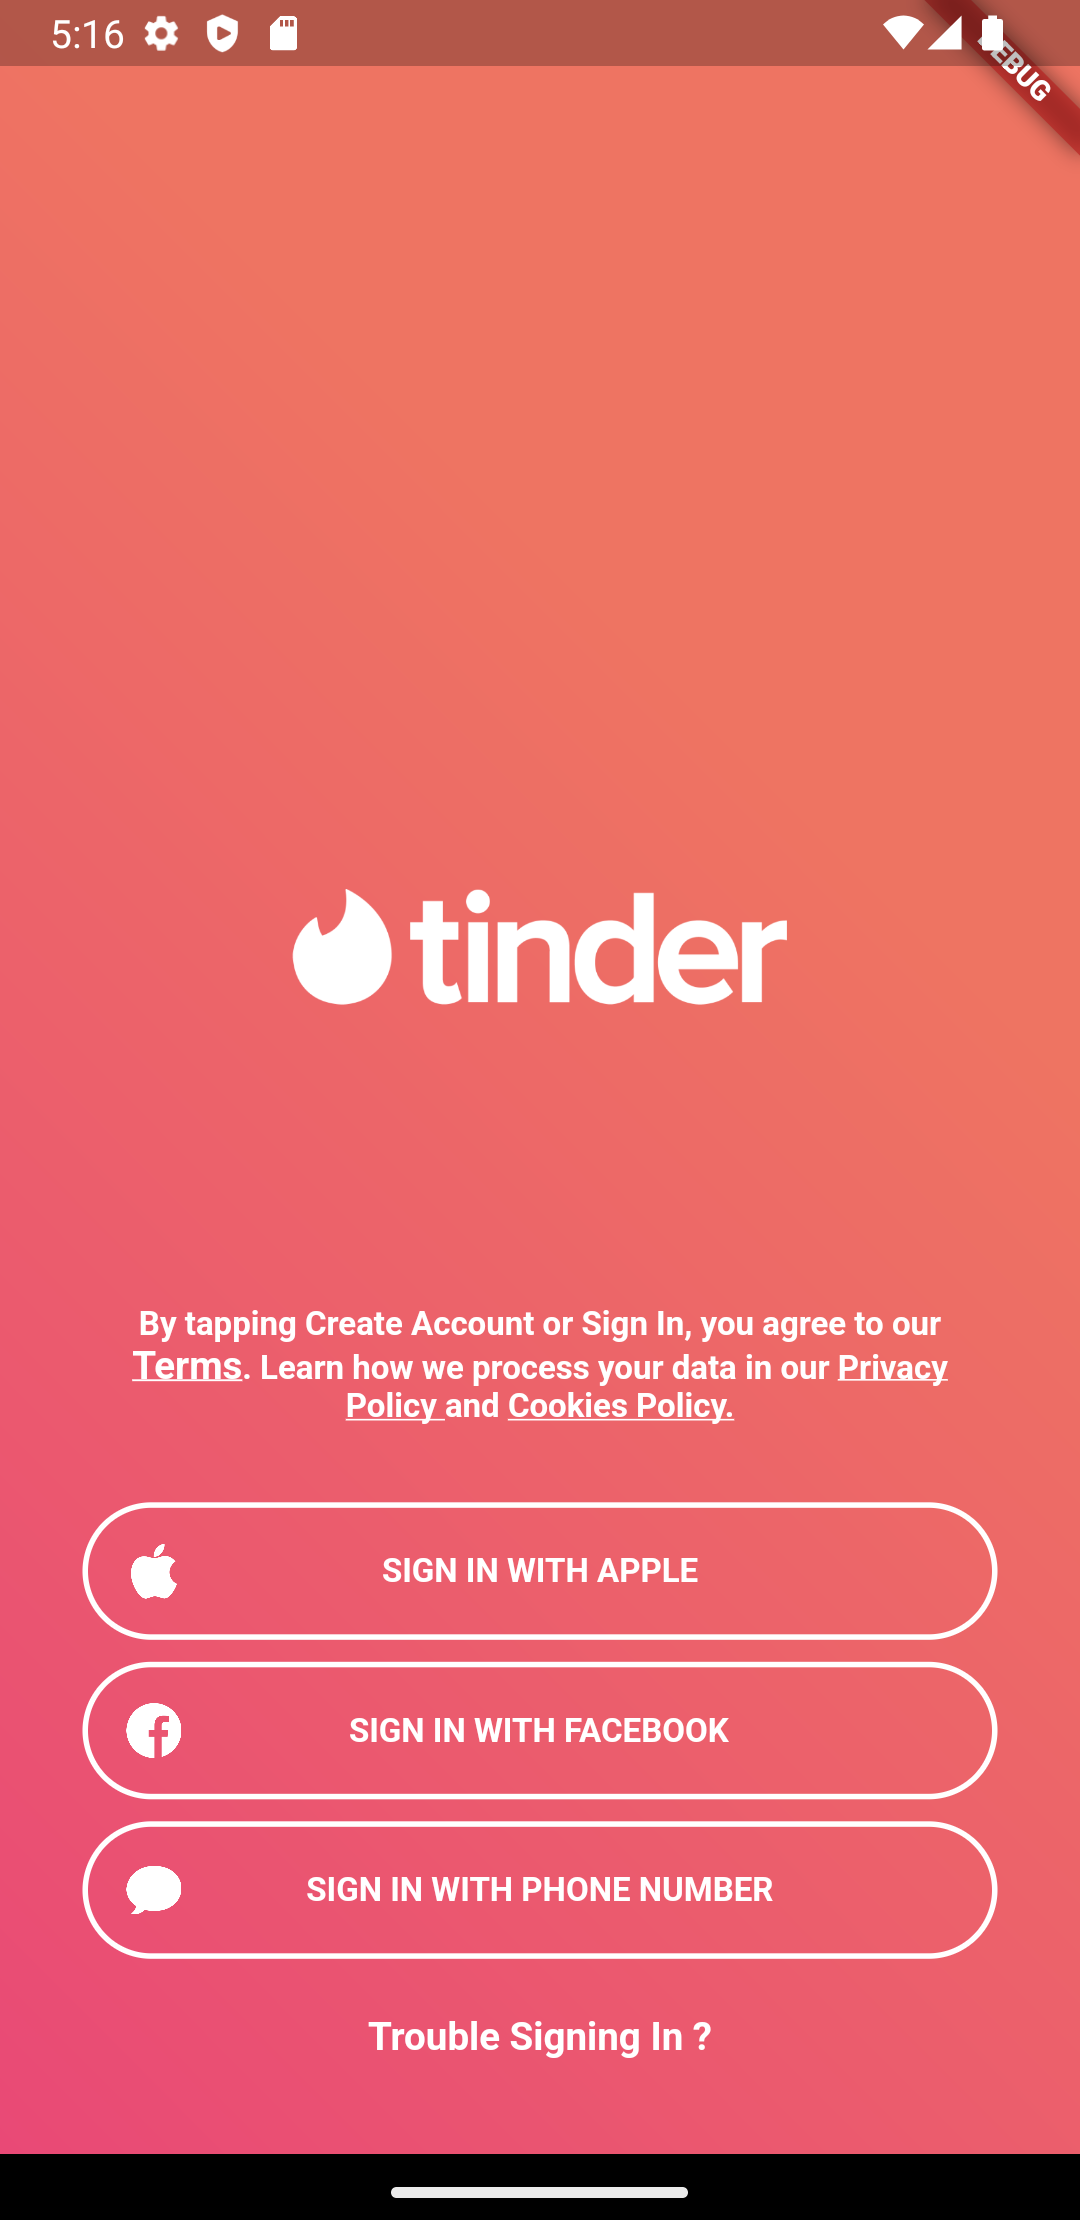
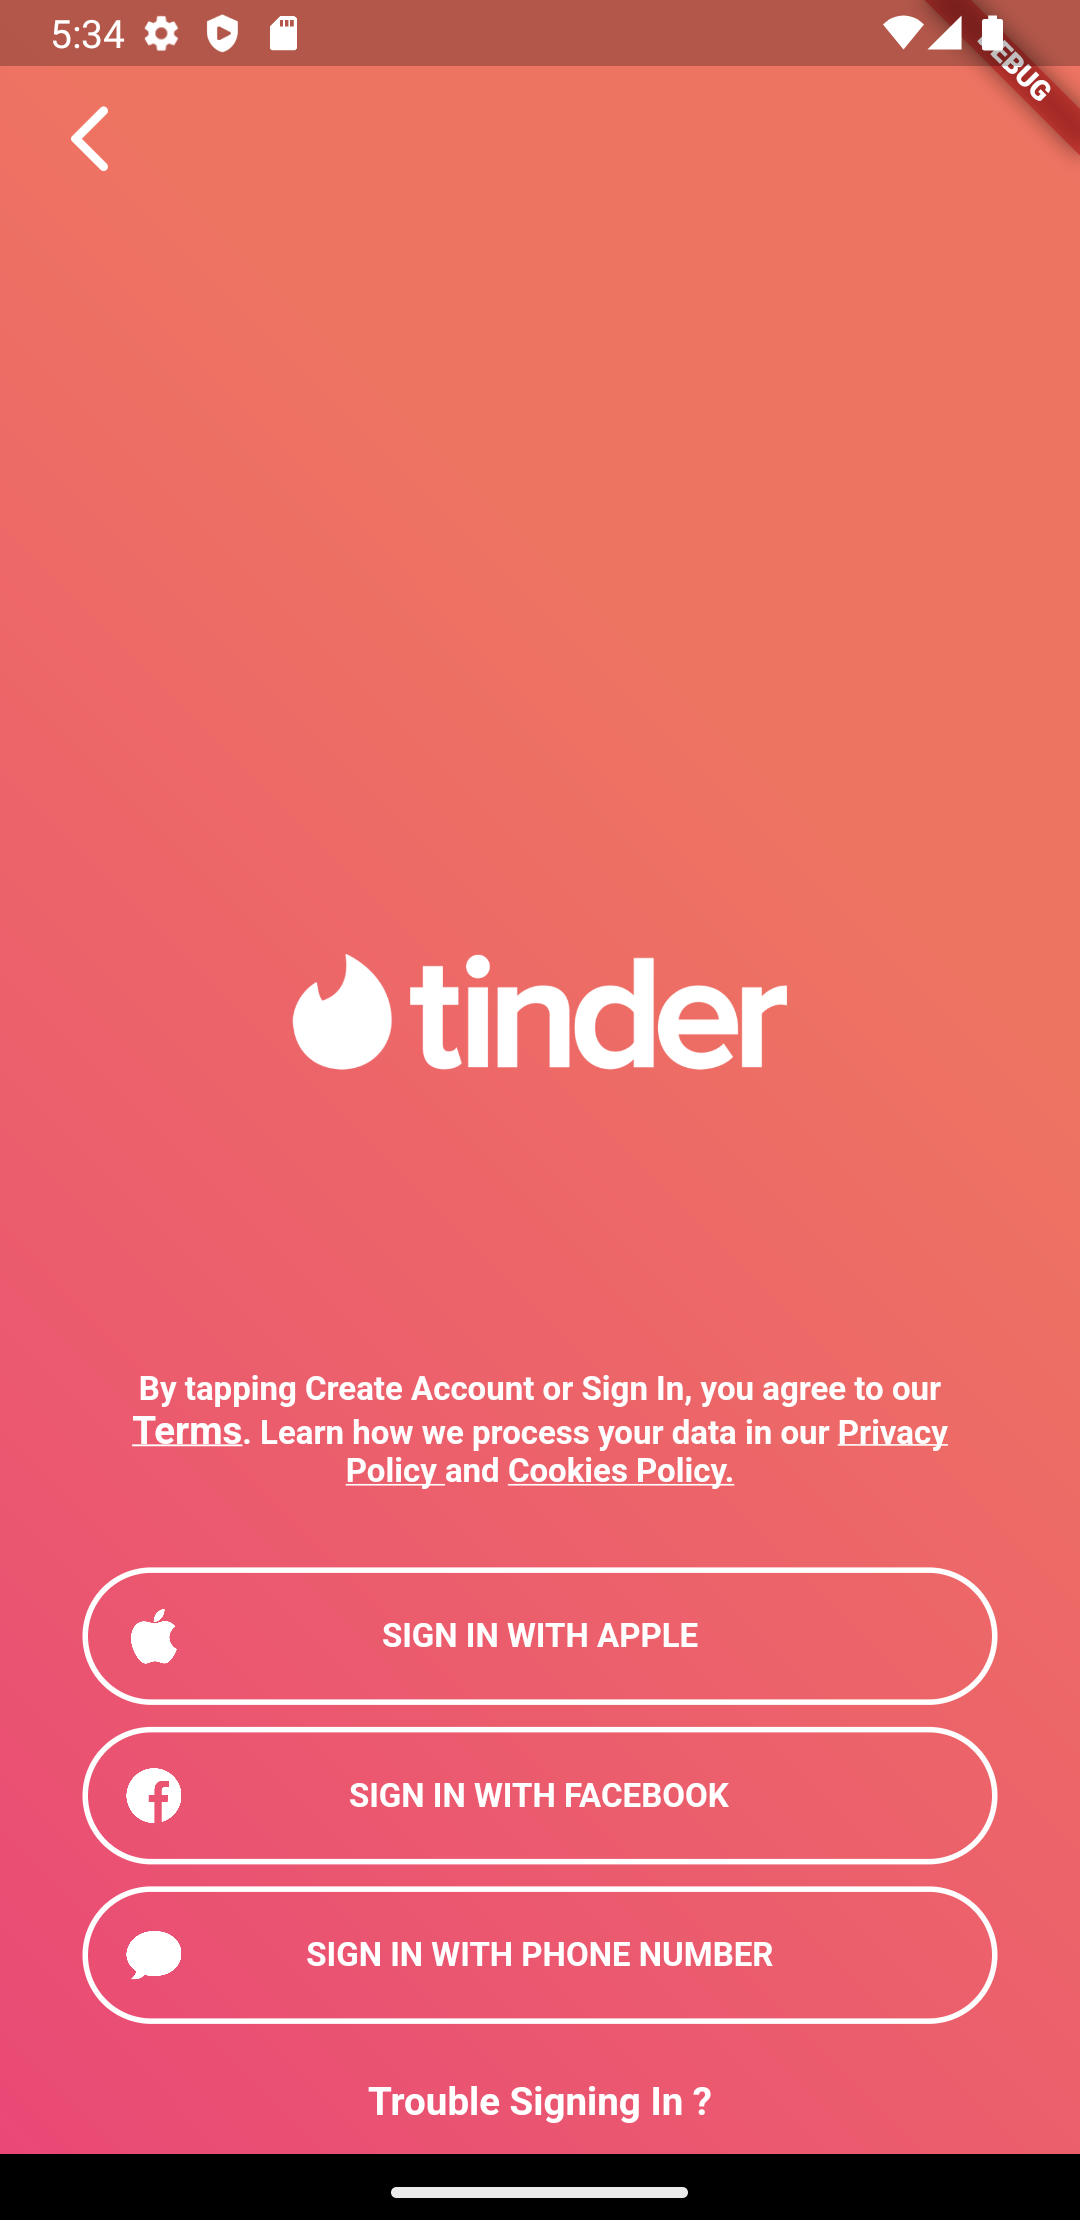
Adicionado botão de voltar

Changed region(s): [[0.0611, 0.5905, 0.9472, 0.9635], [0.275, 0.4041, 0.7333, 0.4973], [0.0611, 0.0, 0.1222, 0.0932]]

diff --git a/lib/pages/login_screen_2.dart b/lib/pages/login_screen_2.dart
@@ -16,7 +16,18 @@ class LoginScreen2 extends StatelessWidget {
         child: Column(
           mainAxisAlignment: MainAxisAlignment.center,
           children: [
-            SizedBox(height: MediaQuery.of(context).size.height * 0.28),
+            Padding(
+              padding: const EdgeInsets.fromLTRB(10, 15, 0, 0),
+              child: SizedBox(
+                width: MediaQuery.of(context).size.width,
+                child: IconButton(
+                  alignment: Alignment.centerLeft,
+                  onPressed: (){}, 
+                  icon: const Icon(Icons.arrow_back_ios_rounded, size: 30, color: Colors.white),
+                ),
+              ),
+            ),
+            SizedBox(height: MediaQuery.of(context).size.height * 0.26),
             Image.asset(
               'assets/images/logo_tinder.png',
               width: 180,
